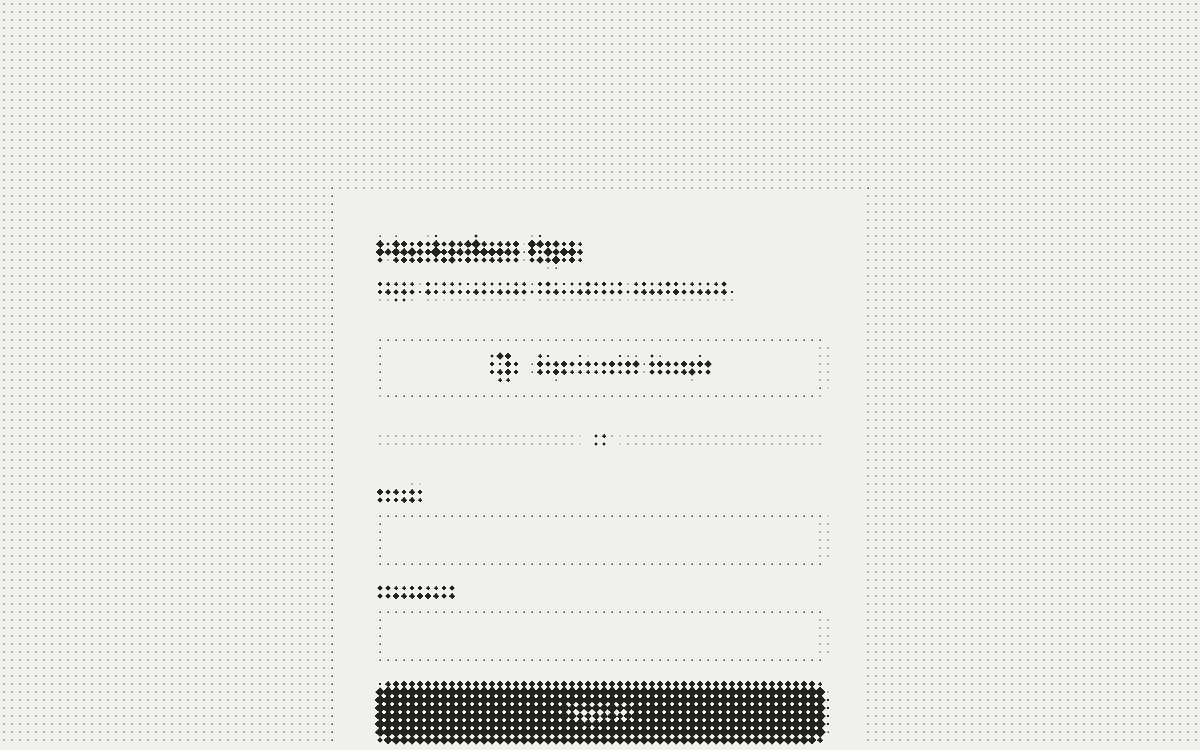
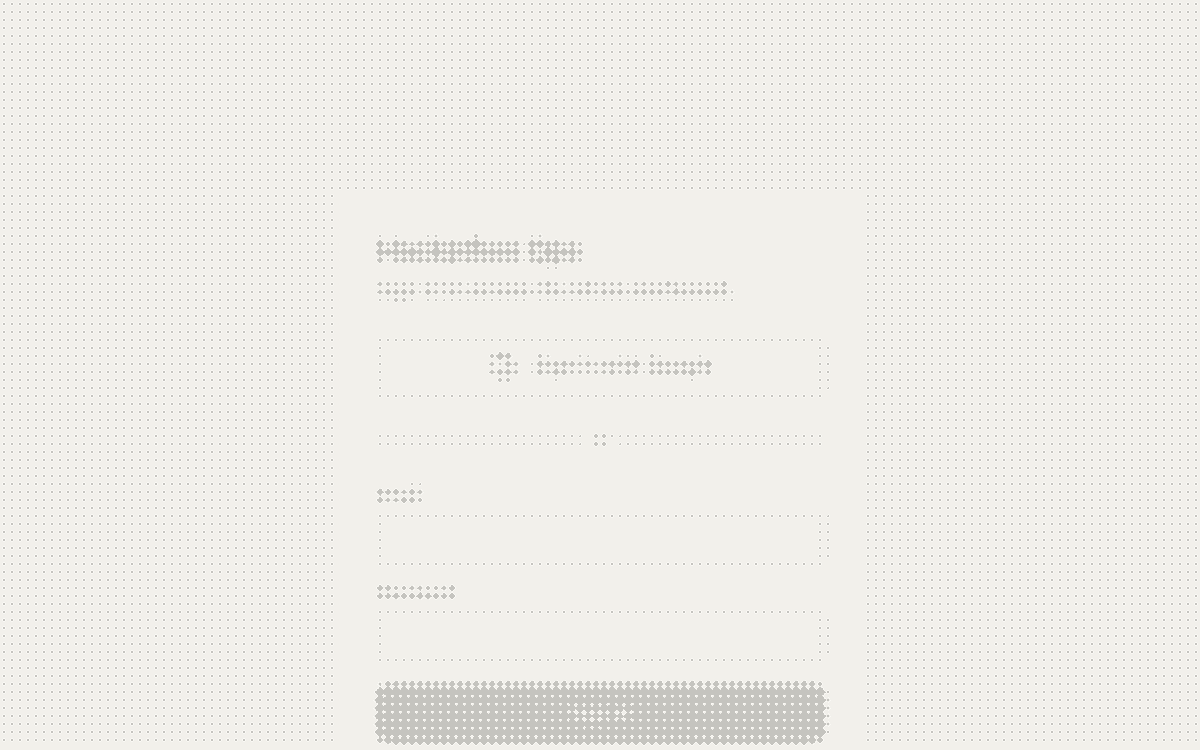
Review fixes: red list scans attributes, link check timeouts and self-origin skip, per-language font preload, arrow glyph subset, status JSON in content, SEO tags only with a known origin, smaller plates, template helpers

diff --git a/style.css b/style.css
@@ -15,6 +15,7 @@
 
 @font-face { font-family: "Inter"; font-style: normal; font-weight: 400 600; font-display: swap; src: url(/assets/fonts/inter-cyr.woff2) format("woff2"); unicode-range: U+0301, U+0400-045F, U+0490-0491, U+04B0-04B1, U+2116; }
 @font-face { font-family: "Inter"; font-style: normal; font-weight: 400 600; font-display: swap; src: url(/assets/fonts/inter-lat.woff2) format("woff2"); unicode-range: U+0000-00FF, U+0131, U+0152-0153, U+02BB-02BC, U+02C6, U+02DA, U+02DC, U+0304, U+0308, U+0329, U+2000-206F, U+20AC, U+2122, U+2191, U+2193, U+2212, U+2215, U+FEFF, U+FFFD; }
+@font-face { font-family: "Inter"; font-style: normal; font-weight: 400 600; font-display: swap; src: url(/assets/fonts/inter-arrow.woff2) format("woff2"); unicode-range: U+2192; }
 @font-face { font-family: "JetBrains Mono"; font-style: normal; font-weight: 400 500; font-display: swap; src: url(/assets/fonts/mono-cyr.woff2) format("woff2"); unicode-range: U+0301, U+0400-045F, U+0490-0491, U+04B0-04B1, U+2116; }
 @font-face { font-family: "JetBrains Mono"; font-style: normal; font-weight: 400 500; font-display: swap; src: url(/assets/fonts/mono-lat.woff2) format("woff2"); unicode-range: U+0000-00FF, U+0131, U+0152-0153, U+02BB-02BC, U+02C6, U+02DA, U+02DC, U+0304, U+0308, U+0329, U+2000-206F, U+20AC, U+2122, U+2191, U+2193, U+2212, U+2215, U+FEFF, U+FFFD; }
 @font-face { font-family: "Unbounded"; font-style: normal; font-weight: 700; font-display: swap; src: url(/assets/fonts/unbounded-cyr.woff2) format("woff2"); unicode-range: U+0301, U+0400-045F, U+0490-0491, U+04B0-04B1, U+2116; }
@@ -36,7 +37,7 @@ h1, h2, h3, p, ul, ol, dl, dd, pre { margin: 0; }
 ul, ol { padding: 0; list-style: none; }
 a { color: inherit; text-decoration: none; }
 a:hover { text-decoration: underline; text-underline-offset: 3px; }
-a:focus-visible, .btn:focus-visible { outline: 2px solid var(--accent); outline-offset: 3px; }
+a:focus-visible { outline: 2px solid var(--accent); outline-offset: 3px; }
 h3 { font-size: 17px; font-weight: 600; letter-spacing: -0.005em; line-height: 1.3; }
 
 /* The frame: two vertical rules the full height of the document */

diff --git a/scripts/halftone.py b/scripts/halftone.py
@@ -10,7 +10,7 @@ paper-dominant. Output is 1200x750 (16:10), a few colours, small.
 """
 import sys
 from pathlib import Path
-from PIL import Image, ImageDraw, ImageOps
+from PIL import Image, ImageDraw, ImageOps, ImageStat
 
 ROOT = Path(__file__).resolve().parent.parent
 SRC, OUT = ROOT / "assets/src", ROOT / "assets/half"
@@ -28,7 +28,7 @@ def plate(src: Path) -> Path:
     cw, ch = w / z, h / z
     im = im.crop((int((w - cw) / 2), int(h * 0.04), int((w + cw) / 2), int(h * 0.04 + ch)))
     im = ImageOps.fit(im, (W, H))
-    if ImageOps.autocontrast(im).resize((1, 1), Image.BOX).getpixel((0, 0)) < 110:   # dark page: invert so paper dominates
+    if ImageStat.Stat(im).mean[0] < 110:   # dark page: invert so paper dominates
         im = ImageOps.invert(im)
     small = im.resize((W // CELL, H // CELL), Image.BOX)   # mean luminance per cell
 
@@ -46,7 +46,7 @@ def plate(src: Path) -> Path:
             cx, cy = i * c + c / 2, j * c + c / 2
             draw.polygon([(cx, cy - r), (cx + r, cy), (cx, cy + r), (cx - r, cy)], fill=INK)
 
-    out = canvas.resize((W, H), Image.LANCZOS).quantize(colors=16)
+    out = canvas.resize((W, H), Image.LANCZOS).quantize(colors=4)
     OUT.mkdir(exist_ok=True)
     dest = OUT / (src.stem + ".png")
     out.save(dest, optimize=True)

diff --git a/README.md b/README.md
@@ -1,6 +1,6 @@
 # veva-site
 
-One-page capability site (RU at `/`, EN at `/en/`). No framework: `content.mjs` holds every word, `build.mjs` writes `dist/`, `test.mjs` checks structure, a red list of claims that must never appear, and every external link.
+One-page capability site (RU at `/`, EN at `/en/`). No framework: `content.mjs` holds every word, `build.mjs` writes `dist/`, `test.mjs` checks structure, a red list of claims that must never appear, and every external link (LinkedIn is skipped: it answers 999 to every non-browser client).
 
 ```
 npm run build          # dist/
